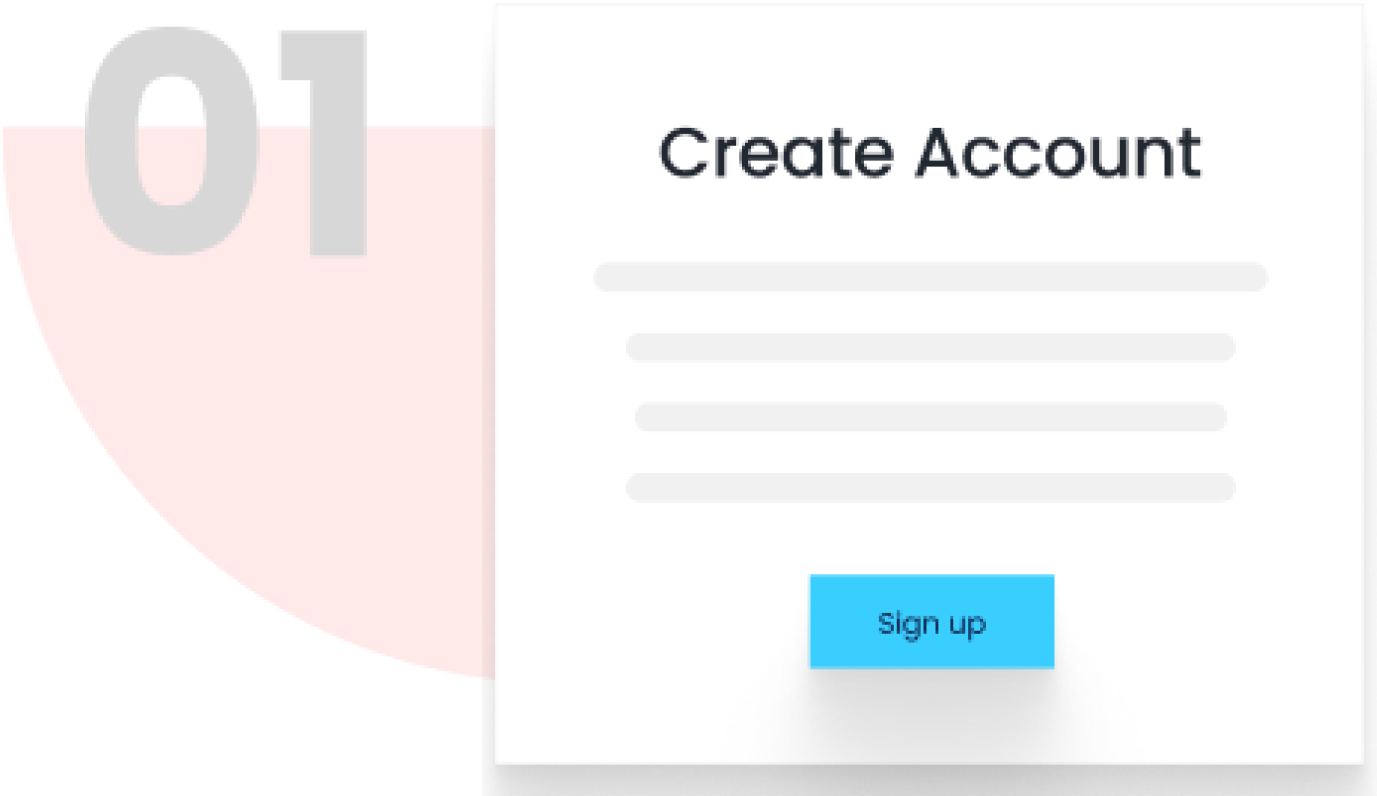
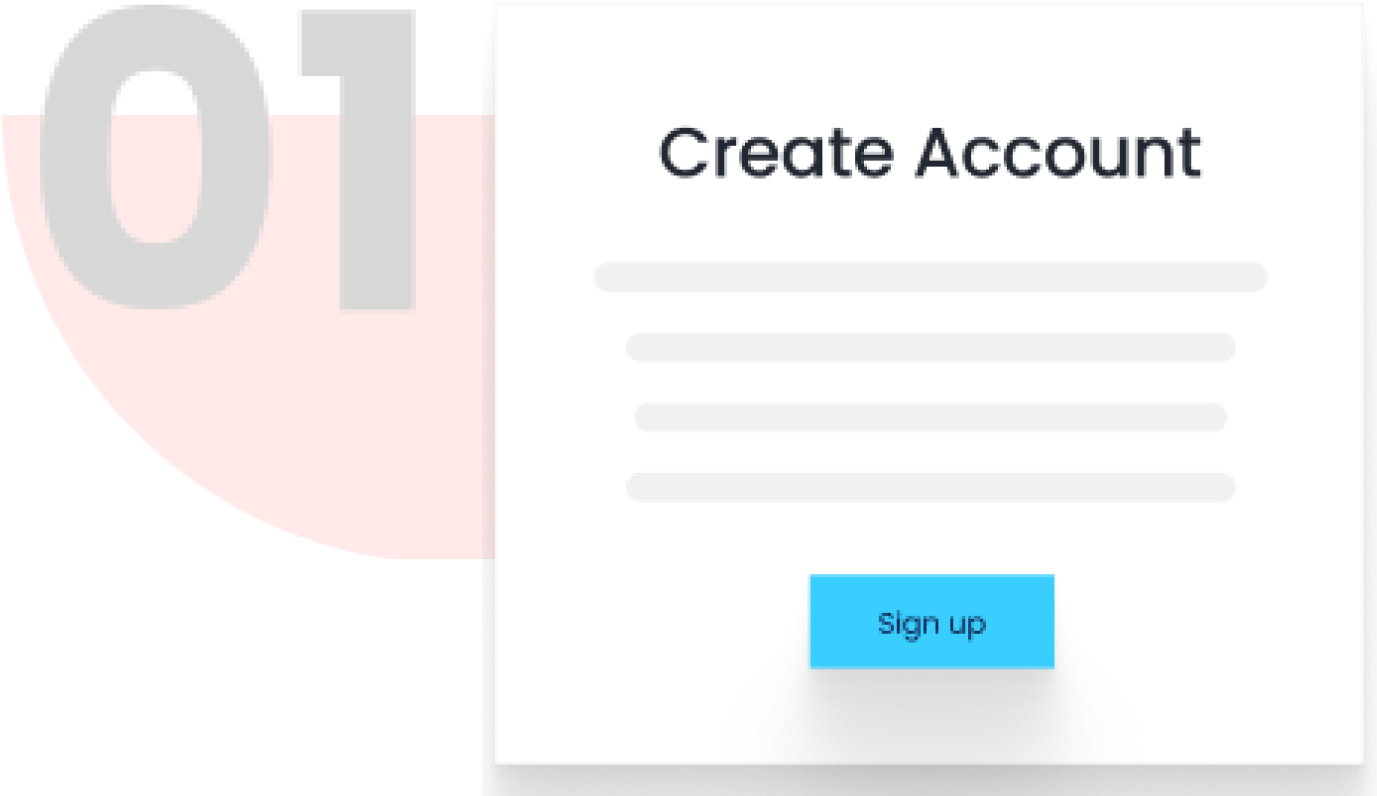
Add loader functionality and update image sources in user flow

Changed region(s): [[0.0312, 0.0, 0.3123, 0.392]]

diff --git a/userflow.js b/userflow.js
@@ -50,13 +50,15 @@ document.getElementById('signInBtn3').addEventListener("click", function (e) {
     showSection(sections.first);
 });
 
-document.querySelectorAll('#signUpBtn').forEach(btn => {
-    btn.addEventListener("click", function (e) {
-        e.preventDefault(); // Prevent default link behavior
-        showSection(sections.notification);
-        sections.body.style.height = '100vh';
-    })
-});
+// document.querySelectorAll('#signUpBtn').forEach(btn => {
+//     btn.addEventListener("click", function (e) {
+//         e.preventDefault(); // Prevent default link behavior
+//         showSection(sections.notification);
+//         sections.body.style.height = '100vh';
+//     })
+// });
+
+
 
 // Event listeners for questionnaire sections
 document.getElementById('okBtn').addEventListener("click", function () {
@@ -114,3 +116,59 @@ document.addEventListener('keydown', function(e) {
         showSection(sections.first);
     }
 });
+
+
+// Getting hold of the inputted values in the sign in section
+const emailForSignIn = document.getElementById('emailForSignIn');
+const passwordForSignIn = document.getElementById('passwordForSignIn');
+const signInForm = document.getElementsByClassName('signInForm');
+const theLoaderContainer = document.querySelector('.loader-container');
+const theLoader = document.querySelector('.loader');
+
+document.getElementById('signUpBtn').addEventListener('click', async function (e) {
+    e.preventDefault();
+    const email = emailForSignIn.value;
+    const password = passwordForSignIn.value;
+    console.log(email, password);
+    // Show loader
+    let isLoading = true;
+    setTimeout(() => {
+        if (isLoading) {
+            theLoaderContainer.style.display = 'flex';
+        }
+    }, 100);
+
+    // const notificationMessage = document.getElementById('notificationMessage');
+    // notificationMessage.style.display = 'none';
+    // notificationMessage.textContent = '';
+
+    try {
+        // Send data to backend using POST
+        const response = await fetch('https://jsonplaceholder.typicode.com/posts', {
+            method: 'POST',
+            headers: {
+                'Content-Type': 'application/json'
+            },
+            body: JSON.stringify({
+                email: email,
+                password: password
+            })
+        });
+
+        const data = await response.json();
+        // isLoading = false;
+        theLoaderContainer.style.display = 'none';
+        // notificationMessage.style.display = 'flex';
+        // notificationMessage.textContent = 'Success: Data sent successfully.';
+        console.log('Success:', data);
+        // Handle success, e.g., show success message or redirect
+        showSection(sections.notification); // Move to next section after authentication
+    } catch (error) {
+        isLoading = false;
+        theLoaderContainer.style.display = 'none';
+        // notificationMessage.style.display = 'flex';
+        // notificationMessage.textContent = 'Error: ' + error.message;
+        console.error('Error:', error);
+        // Handle error, e.g., show error message
+    }
+})

diff --git a/userFlow.html b/userFlow.html
@@ -8,13 +8,22 @@
     <title>User form</title>
 </head>
 <body id="ContentBody">
+    <div class="loader-container" >
+        <span class="loader"></span>
+    </div>
+
+    <!-- <div id="notificationMessage" class="notification-message" style="display: none;">
+
+    </div> -->
+    
+
     <section class="form-section active" id="firstSection">
         
         <div class="form-image">
-            <img src="Landing page Assets/signin image.png" alt="Sign In Image">
+            <img src="Landing page Assets/image fix.png" alt="Sign In Image">
         </div>
         
-            <img src="Landing page Assets/SafeAnchor Logo.svg" alt="Sign In Image" class="anchorlogo">
+            <!-- <img src="Landing page Assets/SafeAnchor Logo.svg" alt="Sign In Image" class="anchorlogo"> -->
         
         
         <div class="form-container1">
@@ -22,12 +31,12 @@
         <div class="form-container2">
         <h1>Sign In</h1>
         <p>Sign in to your account</p>
-        <form>
+        <form class="signInForm">
             <label for="email">Email Address</label><br>
-            <input type="text" id="email" name="email" required><br>
+            <input type="text" id="emailForSignIn" name="email" required><br>
             
             <label for="password">Password</label><br>
-            <input type="password" id="password" name="password" required><br>
+            <input type="password" id="passwordForSignIn" name="password" required><br>
             <span class="forget-password">Forgot password?</span>
             <br><br>
             <button class="sign-in-btn" id="signUpBtn">Sign in</button><br>

diff --git a/userflow.css b/userflow.css
@@ -15,6 +15,49 @@ body{
 
 }
 
+.loader {
+      width: 48px;
+      height: 48px;
+      border-radius: 50%;
+      position: relative;
+      animation: rotate 1s linear infinite
+    }
+    .loader::before {
+      content: "";
+      box-sizing: border-box;
+      position: absolute;
+      inset: 0px;
+      border-radius: 50%;
+      border: 5px solid #FFF;
+      animation: loader 2s linear infinite ;
+    }
+
+    @keyframes rotate {
+      100%   {transform: rotate(360deg)}
+    }
+
+    @keyframes loader {
+        0%   {clip-path:polygon(50% 50%,0 0,0 0,0 0,0 0,0 0)}
+        25%  {clip-path:polygon(50% 50%,0 0,100% 0,100% 0,100% 0,100% 0)}
+        50%  {clip-path:polygon(50% 50%,0 0,100% 0,100% 100%,100% 100%,100% 100%)}
+        75%  {clip-path:polygon(50% 50%,0 0,100% 0,100% 100%,0 100%,0 100%)}
+        100% {clip-path:polygon(50% 50%,0 0,100% 0,100% 100%,0 100%,0 0)}
+    }
+
+
+.loader-container {
+    display: none;
+      position: fixed;
+      top: 0;
+      left: 0;
+      width: 100%;
+      height: 100%;
+      background-color: #00000075;
+      justify-content: center;
+      align-items: center;
+      z-index: 9999;
+    }
+
 h1{
     text-align: center;
         color: #0B1A43;
@@ -434,6 +477,7 @@ padding: 4px;
     .notification-container,
     .questionnaire-container {
         width: 100%;
+                height: 100%;
         margin: 15px 0;
         padding: 1rem;
     }

diff --git a/style.css b/style.css
@@ -551,10 +551,14 @@ height: auto;
 }
 .guideline-card2{
     width: 900px;
-    margin: 0 auto 0 175px;
+    margin: 50px auto 50px 175px;
     display: flex;
     justify-content: space-between;
 }
+
+.guideline-images img{
+        width: 250px;
+    }
 
 .guideline-card3{
     width: 1008px;
@@ -1036,6 +1040,10 @@ height: auto;
     .guideline-card2{
         margin: 30px auto;
     }
+
+    .guideline-images img{
+        width: 250px;
+    }
     
     .feature-img 
     {
@@ -1273,7 +1281,7 @@ height: auto;
     }
     
     .guideline-images img{
-        width: 200px;
+        width: 250px;
     }
     
     .guideline-card{
@@ -1282,7 +1290,7 @@ height: auto;
     
     .guideline-card2{
         width: 700px;
-        margin: 0 auto;
+        margin: 50px auto;
     }
     
     .guideline-card3{
@@ -1369,9 +1377,7 @@ height: auto;
     }
     
     @media (max-width: 768px){
-        *{
-            /* border: 1px solid red; */
-        }
+       
     
          /* .nav-header, .hero-container, .features-container, .about-us-container, .experts-section-container, .choose-us-container, .guidelines-container, .footer-container{
             display: none;
@@ -1613,7 +1619,7 @@ height: auto;
     }
     
     .guideline-images img{
-        width: 130px;
+        width: 200px;
     }
     
     .guideline-account{

diff --git a/index.html b/index.html
@@ -307,12 +307,12 @@
                     <p class="second-header">Simple steps to start your healing journey</p>
                 </div>
                 
-                <img src="Landing page Assets/Ellipse shape img.png" alt="Ellipse shape" class="Ellipse">
-                <img src="Landing page Assets/01 img.png" alt="number1" class="number1">
+                <!-- <img src="Landing page Assets/Ellipse shape img.png" alt="Ellipse shape" class="Ellipse">
+                <img src="Landing page Assets/01 img.png" alt="number1" class="number1"> -->
 
                 <div class="guideline-card">
                     <div class="guideline-images">
-                    <img src="Landing page Assets/Create acct image.png" alt="Ellipse shape">
+                    <img src="Landing page Assets/image fix 1.png" alt="">
                     </div>
 
                     <div class="guideline-account">
